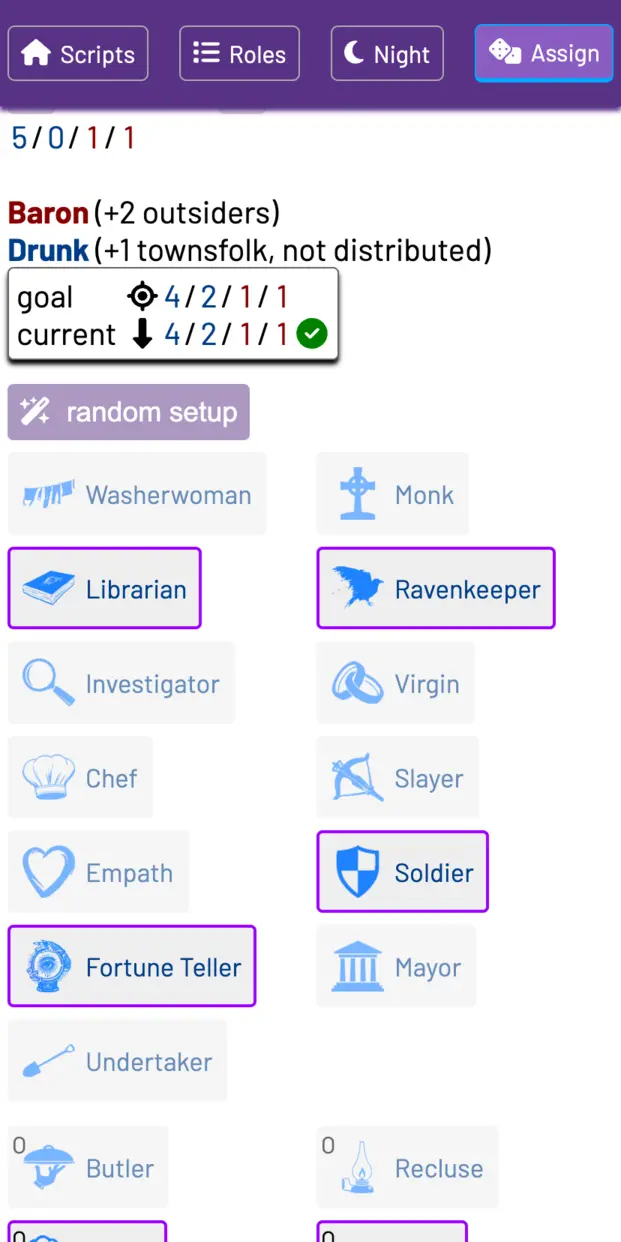
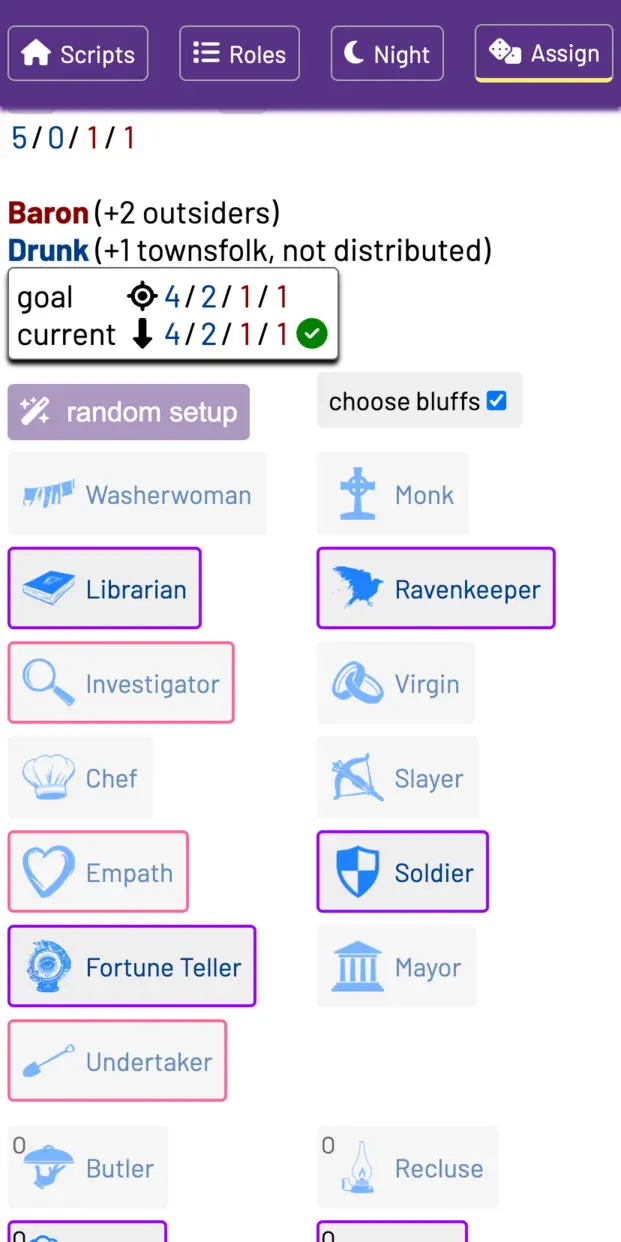
Update screenshots with bluffs screen

diff --git a/test/screenshot.ts b/test/screenshot.ts
@@ -111,6 +111,9 @@ async function main() {
   await page.waitForSelector(".townsquare");
   await screenshot("assign/4-grimoire");
 
+  await page.tap(`xpath///*[contains(text(), 'Bluffs')]`);
+  await screenshot("assign/5-show-bluffs");
+
   await page.setViewport({
     width: iPhone.viewport.height,
     height: iPhone.viewport.width,
@@ -118,7 +121,7 @@ async function main() {
   });
 
   await pickChar("Imp", true);
-  await screenshot("assign/5-show-char");
+  await screenshot("assign/6-show-char");
 
   await browser.close();
 }

diff --git a/FEATURES.md b/FEATURES.md
@@ -96,4 +96,10 @@ each player in turn:
 alt="Screenshot showing character assignment screen"
 width="400">
 
+You can also show the demon their bluffs:
+
+<img src="screenshots/bluffs.webp"
+alt="Screenshot showing bluffs for demon"
+width="400">
+
 This also really helps with setup.

diff --git a/README.md b/README.md
@@ -62,5 +62,5 @@ yarn test-screenshots
 ./test/use-screenshots.sh
 ```
 
-`test-screenshots` takes some options, to run on a local development server and
-to grab a subset of screenshots.
+`test-screenshots` takes some options, run it with `yarn test-screenshots
+--help` to see them.
